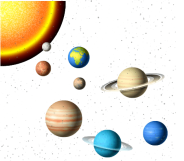
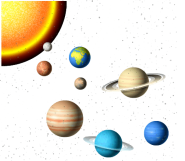
Add files via upload

diff --git a/CardLayoutFrameClient.java b/CardLayoutFrameClient.java
@@ -1,4 +1,4 @@
-package FinalProjectRachel2;
+package FinalProjectDeliverable;
 
 import javax.swing.*;
 import java.awt.*;
@@ -100,7 +100,7 @@ public class CardLayoutFrameClient extends JFrame {
         styleButton(loginButton,50,242,161,187);
         welcomeButtonsPanel.add(loginButton);
 
-        newUserButton = new JButton("Create new user");
+        newUserButton = new JButton("Create user");
         newUserButton.setFont(new Font("Tahoma", Font.BOLD, 20));
         styleButton(newUserButton,50,242,161,187);
         welcomeButtonsPanel.add(newUserButton);
@@ -248,6 +248,8 @@ public class CardLayoutFrameClient extends JFrame {
         JPanel centerPanel = new JPanel(new GridLayout(2,1,0,0));
         centerPanel.add(scoreLabel);
         centerPanel.add(leaderboardArea);
+
+        centerPanel.setOpaque(false);
 
         resultPanel.add(resultLabel, BorderLayout.NORTH);
         resultPanel.add(centerPanel, BorderLayout.CENTER);

diff --git a/QuestionLoader.java b/QuestionLoader.java
@@ -1,4 +1,4 @@
-package FinalProjectBeta;
+package FinalProjectDeliverable;
 
 import java.io.BufferedReader;
 import java.io.FileNotFoundException;
@@ -38,9 +38,9 @@ public class QuestionLoader {
         try {
             FileReader fileReader = null;
             if(category == 1) {
-                fileReader = new FileReader("src/FinalProjectBeta/MarineAnimalsQuestions.txt");
+                fileReader = new FileReader("src/FinalProjectDeliverable/MarineAnimalsQuestions.txt");
             } else if(category == 2) {
-                fileReader = new FileReader("src/FinalProjectBeta/SolarSystemQuestions.txt");
+                fileReader = new FileReader("src/FinalProjectDeliverable/SolarSystemQuestions.txt");
             } else {
                 System.out.print("CATEGORY SELECTOR FAILED");
                 return map;
@@ -72,4 +72,3 @@ public class QuestionLoader {
         return map;
     }
 }
-

diff --git a/DBConnection.java b/DBConnection.java
@@ -1,4 +1,4 @@
-package FinalProjectBeta;
+package FinalProjectDeliverable;
 
 import java.sql.Connection;
 import java.sql.DriverManager;

diff --git a/GameClient1.java b/GameClient1.java
@@ -1,4 +1,4 @@
-package FinalProjectRachel2;
+package FinalProjectDeliverable;
 
 import javax.swing.*;
 import java.io.IOException;

diff --git a/GameServer.java b/GameServer.java
@@ -1,4 +1,4 @@
-package FinalProjectRachel2;
+package FinalProjectDeliverable;
 
 import javax.swing.*;
 import java.io.IOException;

diff --git a/User.java b/User.java
@@ -1,4 +1,4 @@
-package FinalProjectBeta;
+package FinalProjectDeliverable;
 
 // File: User.java
 import java.io.Serializable;

diff --git a/CardLayoutFrameServer.java b/CardLayoutFrameServer.java
@@ -1,4 +1,4 @@
-package FinalProjectRachel2;
+package FinalProjectDeliverable;
 
 import javax.swing.*;
 import java.awt.*;

diff --git a/UserCRUD.java b/UserCRUD.java
@@ -1,4 +1,4 @@
-package FinalProjectBeta;
+package FinalProjectDeliverable;
 
 import java.sql.*;
 
